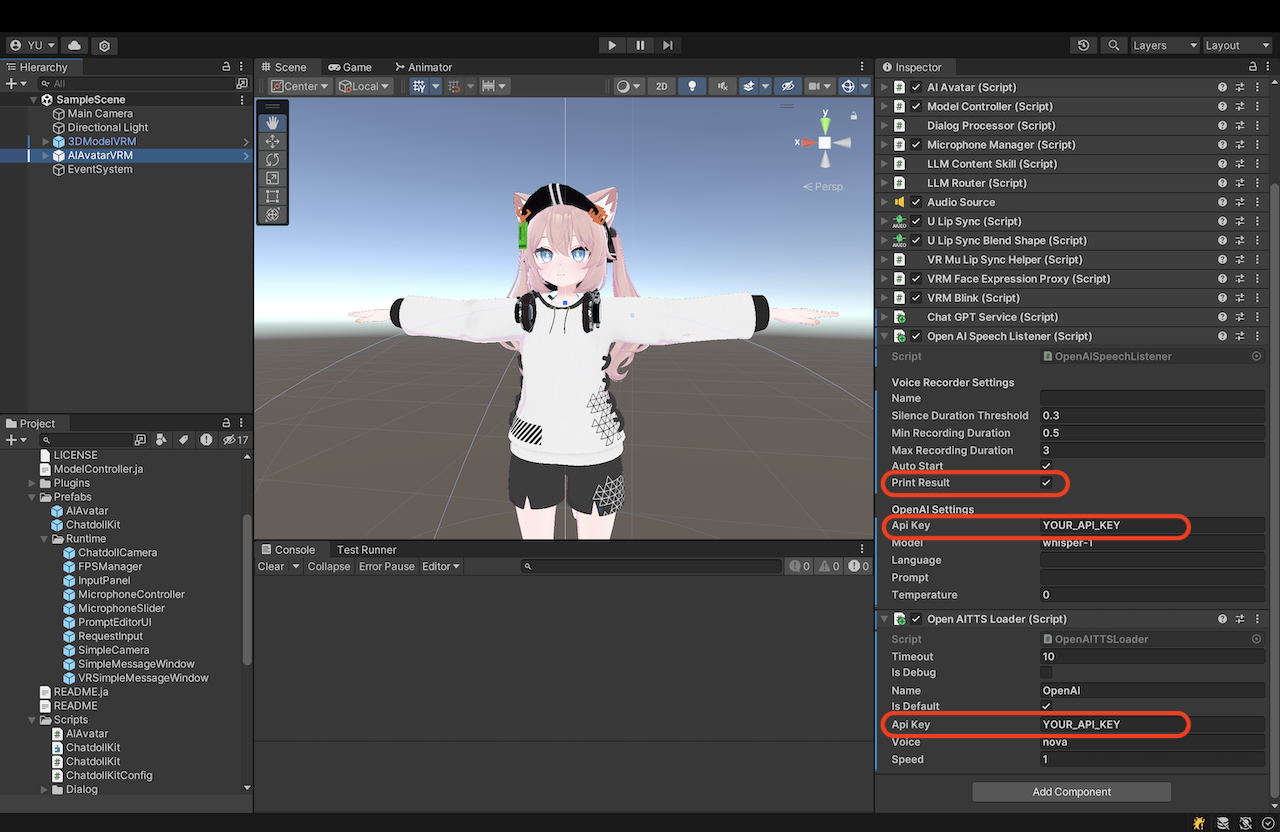
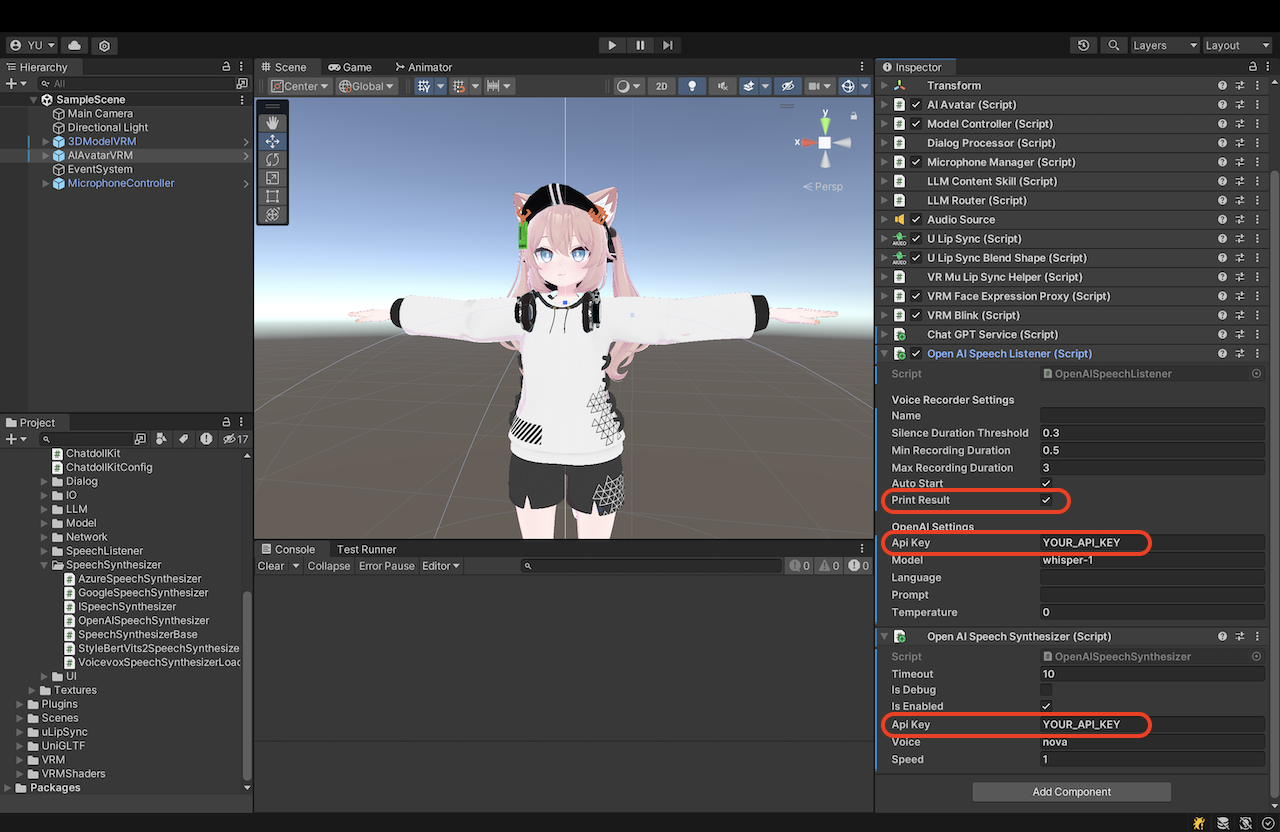
Update README for v0.8.2

diff --git a/README.md b/README.md
@@ -16,14 +16,21 @@
 - **Multi platforms**: Compatible with Windows, Mac, Linux, iOS, Android, and other Unity-supported platforms, including VR, AR, and WebGL.
 
 
-## 💎 What's New in Version 0.8.1
+## 💎 What's New in Version 0.8.2
+
+- **🌐 Control WebGL Character from JavaScript**: We’ve added the ability to control the ChatdollKit Unity application from JavaScript when running in WebGL builds. This allows for more seamless interactions between the Unity app and web-based systems.
+- **🗣 Speech Synthesizer**: A new `SpeechSynthesizer` component has been introduced to streamline text-to-speech (TTS) operations. This component is reusable across projects without `Model` package, simplifying maintenance and reusability. 
+
+---
+
+### Previous Updates
+
+#### 0.8.1
 
 - **🏷 User-Defined Tags Support**: You can now include custom tags in AI responses, enabling dynamic actions. For instance, embed language codes in replies to switch between multiple languages on the fly during conversations.
 - **🌐 External Control via Socket**: Now supports external commands through Socket communication. Direct conversation flow, trigger specific phrases, or control expressions and gestures, unlocking new use cases like AI Vtubers and remote customer service. Check out the client-side demo here: https://gist.github.com/uezo/9e56a828bb5ea0387f90cc07f82b4c15
 
----
-
-### Previous Updates (0.8.0 Beta)
+#### 0.8 Beta
 
 - **⚡ Optimized AI Dialog Processing**: We've boosted response speed with parallel processing and made it easier for you to customize behavior with your own code. Enjoy faster, more flexible AI conversations!
 - **🥰 Emotionally Rich Speech**: Adjusts vocal tone dynamically to match the conversation, delivering more engaging and natural interactions.
@@ -42,7 +49,7 @@ To run the demo for version 0.8, please follow the steps below after importing t
 - Select `AIAvatarVRM` object in scene.
 - Set OpenAI API key to following components on inspector:
   - ChatGPTService
-  - OpenAITTSLoader
+  - OpenSpeechSynthesizer
   - OpenAISpeechListener
 - Run on Unity Editor.
 - Say "こんにちは" or word longer than 3 characters.
@@ -61,14 +68,14 @@ To run the demo for version 0.8, please follow the steps below after importing t
   - [Speech Service](#speech-service)
   - [Microphone Controller](#microphone-controller)
   - [Run](#run)
-- [🎓 LLM Service](#-llm-service-1)
+- [🎓 LLM Service](#-llm-service)
   - [Basic Settings](#basic-settings)
   - [Facial Expressions](#facial-expressions)
   - [Animations](#animations)
   - [User Defined Tag](#user-defined-tag)
   - [Multi Modal](#multi-modal)
-- [🗣 Speech Synthesizer (Text-to-Speech)](#-speech-synthesizer-text-to-speech)
-  - [Make custom TTSLoader](#make-custom-ttsloader)
+- [🗣 Speech Synthesizer (Text-to-Speech)](#%EF%B8%8F-speech-synthesizer-text-to-speech)
+  - [Make custom SpeechSynthesizer](#make-custom-speechsynthesizer)
   - [Performance and Quality Tuning](#performance-and-quality-tuning)
 - [🎧 Speech Listener (Speech-to-Text)](#-speech-listener-speech-to-text)
   - [Settings on AIAvatar Inspector](#settings-on-aiavatar-inspector)
@@ -77,18 +84,18 @@ To run the demo for version 0.8, please follow the steps below after importing t
   - [Cancel Words](#cancel-words)
   - [Ignore Words](#ignore-words)
   - [Wake Length](#wake-length)
-- [⚡ AI Agent (Tool Call)](#-ai-agent-tool-call)
-- [🎙 Devices](#-devices)
+- [⚡ AI Agent (Tool Call)](#%EF%B8%8F-ai-agent-tool-call)
+- [🎙 Devices](#%EF%B8%8F-devices)
   - [Microphone](#microphone)
   - [Camera](#camera)
 - [🥰 3D Model Control](#-3d-model-control)
   - [Idle Animations](#idle-animations)
   - [Control by Script](#control-by-script)
-- [🎚 UI Components](#-ui-components)
-- [🛜 Remote Access](#-remote-access)
+- [🎚 UI Components](#%EF%B8%8F-ui-components)
+- [🎮 Control from External Programs](#-control-from-external-programs)
   - [ChatdollKit Remote Client](#chatdollkit-remote-client)
 - [🌐 Run on WebGL](#-run-on-webgl)
-- [❤ Thanks](#-thanks)
+- [❤ Thanks](#%EF%B8%8F-thanks)
 
 
 ## 📦 Setup New Project
@@ -164,7 +171,7 @@ Attach the component corresponding to the LLM service from `ChatdollKit/Scripts/
 
 ### Speech Service
 
-Attach the `SpeechListener` component from `ChatdollKit/Scripts/SpeechListener` for speech recognition and the `TTSLoader` component from `ChatdollKit/Extension` for speech synthesis. Configure the necessary fields like API keys and language codes. Enabling `PrintResult` in the SpeechListener settings will output recognized speech to the log, useful for debugging.
+Attach the `SpeechListener` component from `ChatdollKit/Scripts/SpeechListener` for speech recognition and the `SpeechSynthesizer` component from `ChatdollKit/Scripts/SpeechSynthesizer` for speech synthesis. Configure the necessary fields like API keys and language codes. Enabling `PrintResult` in the SpeechListener settings will output recognized speech to the log, useful for debugging.
 
 <img src="Documents/Images/readme081/08_setup_speech.png" width="640">
 
@@ -285,26 +292,19 @@ chatGPTService.HandleExtractedTags = (tags, session) =>
 {
     if (tags.ContainsKey("language"))
     {
-        // Get language code
         var language = tags["language"].Contains("-") ? tags["language"].Split('-')[0] : tags["language"];
-
         if (language != "ja")
         {
-            // Use OpenAI TTS for non-Japanese languages
-            var openAITTS = gameObject.GetComponent<OpenAITTSLoader>();
-            modelController.RegisterTTSFunction(openAITTS.Name, openAITTS.GetAudioClipAsync, true);
+            var openAISpeechSynthesizer = gameObject.GetComponent<OpenAISpeechSynthesizer>();
+            modelController.SpeechSynthesizerFunc = openAISpeechSynthesizer.GetAudioClipAsync;
         }
         else
         {
-            // Use VOICEVOX for Japanese
-            var voicevoxTTS = gameObject.GetComponent<VoicevoxTTSLoader>();
-            modelController.RegisterTTSFunction(voicevoxTTS.Name, voicevoxTTS.GetAudioClipAsync, true);
+            var voicevoxSpeechSynthesizer = gameObject.GetComponent<VoicevoxSpeechSynthesizer>();
+            modelController.SpeechSynthesizerFunc = voicevoxSpeechSynthesizer.GetAudioClipAsync;
         }
-
-        // Change speech listener's language
         var openAIListener = gameObject.GetComponent<OpenAISpeechListener>();
         openAIListener.Language = language;
-
         Debug.Log($"Set language to {language}");
     }
 };
@@ -348,16 +348,16 @@ gameObject.GetComponent<ChatGPTService>().CaptureImage = async (source) =>
 
 ## 🗣 Speech Synthesizer (Text-to-Speech)
 
-We support cloud-based speech synthesis services such as Google, Azure, OpenAI, and Watson, in addition to VOICEVOX, VOICEROID, and Style-Bert-VITS2 for more characterful and engaging voices. To use a speech synthesis service, attach `TTSLoader` from `ChatdollKit/Extension` to the AIAvatar object and check the `IsDefault` box. If other `TTSLoader` components are attached, make sure to uncheck the `IsDefault` box for those not in use.
+We support cloud-based speech synthesis services such as Google, Azure, OpenAI, and Watson, in addition to VOICEVOX, VOICEROID, and Style-Bert-VITS2 for more characterful and engaging voices. To use a speech synthesis service, attach `SpeechSynthesizer` from `ChatdollKit/Scripts/SpeechListener` to the AIAvatar object and check the `IsEnabled` box. If other `SpeechSynthesizer` components are attached, make sure to uncheck the `IsEnabled` box for those not in use.
 
-You can configure parameters like API keys and endpoints on the attached `TTSLoader` in the inspector. For more details of these parameters, refer to the API references of TTS services.
+You can configure parameters like API keys and endpoints on the attached `SpeechSynthesizer` in the inspector. For more details of these parameters, refer to the API references of TTS services.
 
-### Make custom TTSLoader
+### Make custom SpeechSynthesizer
 
-You can easily create and use a custom `TTSLoader` for your preferred text-to-speech service. Create a class that inherits from `ChatdollKit.Model.WebVoiceLoaderBase`, and implement the asynchronous method `DownloadAudioClipAsync` that takes a `Voice` object and returns an `AudioClip` object playable in Unity.
+You can easily create and use a custom `SpeechSynthesizer` for your preferred text-to-speech service. Create a class that inherits from `ChatdollKit.SpeechSynthesizer.SpeechSynthesizerBase`, and implement the asynchronous method `DownloadAudioClipAsync` that takes a `string text` and `Dictionary<string, object> parameters`, and returns an `AudioClip` object playable in Unity.
 
 ```csharp
-UniTask<AudioClip> DownloadAudioClipAsync(Voice voice, CancellationToken token)
+UniTask<AudioClip> DownloadAudioClipAsync(string text, Dictionary<string, object> parameters, CancellationToken cancellationToken)
 ```
 
 Note that WebGL does not support compressed audio playback, so make sure to handle this by adjusting your code depending on the platform.
@@ -380,7 +380,7 @@ You can balance performance and speech quality by adjusting how the text is spli
 
 We support cloud-based speech recognition services such as Google, Azure, and OpenAI. To use these services, attach the `SpeechListener` component from `ChatdollKit/Scripts/SpeechListener` to the AIAvatar object. Be aware that if multiple SpeechListeners are attached, they will run in parallel, so ensure that only the one you want is active.
 
-You can configure parameters such as API keys and endpoints on the attached SpeechListener in the inspector. For details of these parameters, please refer to the API references of the respective TTS services and products.
+You can configure parameters such as API keys and endpoints on the attached SpeechListener in the inspector. For details of these parameters, please refer to the API references of the respective STT services and products.
 
 Most of the `Voice Recorder Settings` are controlled by the `AIAvatar` component, described later, so any settings in the inspector, except for those listed below, will be ignored.
 
@@ -496,9 +496,10 @@ We provide UI component prefabs commonly used in voice-interactive AI character 
 - **SimpleCamera**: A component that handles image capture and preview display from the camera. You can also capture images without showing the preview.
 
 
-## 🛜 Remote Access
+## 🎮 Control from External Programs
 
-You can send requests to the ChatdollKit application from external programs using socket communication. This feature enables new use cases such as AI Vtuber streaming, remote avatar customer service, and hybrid character operations combining AI and human interaction. Attach the `ChatdollKit/Scripts/Network/SocketServer` to the AIAvatar object and set the port number (e.g., 8080).
+You can send requests to the ChatdollKit application from external programs using socket communication or from JavaScript. This feature enables new use cases such as AI Vtuber streaming, remote avatar customer service, and hybrid character operations combining AI and human interaction.
+Attach `ChatdollKit/Scripts/Network/SocketServer` to the AIAvatar object and set the port number (e.g., 8080) to control using socket communication, or, attach `ChatdollKit/Scripts/IO/JavaScriptMessageHandler` to control from JavaScript.
 
 Additionally, to handle dialog requests over the network, attach the `ChatdollKit/Scripts/Dialog/DialogPriorityManager` to the AIAvatar object. To process requests that make the character perform gestures, facial expressions, or speech created by humans instead of AI responses, attach the `ChatdollKit/Scripts/Model/ModelRequestBroker` to the AIAvatar object.
 
@@ -506,7 +507,6 @@ Below is a code example for using both of the above components.
 
 ```csharp
 // Configure ModelRequestBroker for remote control
-var modelRequestBroker = gameObject.GetComponent<ModelRequestBroker>();
 modelRequestBroker.RegisterAnimation("angry_hands_on_waist", new Model.Animation("BaseParam", 0, 3.0f));
 modelRequestBroker.RegisterAnimation("brave_hand_on_chest", new Model.Animation("BaseParam", 1, 3.0f));
 modelRequestBroker.RegisterAnimation("calm_hands_on_back", new Model.Animation("BaseParam", 2, 3.0f));
@@ -521,29 +521,49 @@ modelRequestBroker.RegisterAnimation("look_away", new Model.Animation("BaseParam
 modelRequestBroker.RegisterAnimation("nodding_once", new Model.Animation("BaseParam", 6, 3.0f, "AGIA_Layer_nodding_once_01", "Additive Layer"));
 modelRequestBroker.RegisterAnimation("swinging_body", new Model.Animation("BaseParam", 6, 3.0f, "AGIA_Layer_swinging_body_01", "Additive Layer"));
 
-// Get DialogPriorityManager for remote control
-var dialogPriorityManager = gameObject.GetComponent<DialogPriorityManager>();
+// Configure message handler for remote control
+#pragma warning disable CS1998
+#if UNITY_WEBGL && !UNITY_EDITOR
+gameObject.GetComponent<JavaScriptMessageHandler>().OnDataReceived = async (message) =>
+{
+    HandleExternalMessage(message, "JavaScript");
+};
+#else
+gameObject.GetComponent<SocketServer>().OnDataReceived = async (message) =>
+{
+    HandleExternalMessage(message, "SocketServer");
+};
+#endif
+#pragma warning restore CS1998
+```
 
-// Configure SocketServer for remote control
-gameObject.GetComponent<SocketServer>().OnDataReceived = (request) =>
+```csharp
+private void HandleExternalMessage(ExternalInboundMessage message, string source)
 {
     // Assign actions based on the request's Endpoint and Operation
-    if (request.Endpoint == "dialog")
+    if (message.Endpoint == "dialog")
     {
-        if (request.Operation == "start")
+        if (message.Operation == "start")
         {
-            dialogPriorityManager.SetRequest(request.Text, request.Payloads, request.Priority);
+            if (source == "JavaScript")
+            {
+                dialogPriorityManager.SetRequest(message.Text, message.Payloads, 0);
+            }
+            else
+            {
+                dialogPriorityManager.SetRequest(message.Text, message.Payloads, message.Priority);
+            }
         }
-        else if (request.Operation == "clear")
+        else if (message.Operation == "clear")
         {
-            dialogPriorityManager.ClearDialogRequestQueue(request.Priority);
+            dialogPriorityManager.ClearDialogRequestQueue(message.Priority);
         }
     }
-    else if (request.Endpoint == "model")
+    else if (message.Endpoint == "model")
     {
-        modelRequestBroker.SetRequest(request.Text);
-    }
-};
+        modelRequestBroker.SetRequest(message.Text);
+    }            
+}
 ```
 
 ### ChatdollKit Remote Client
@@ -562,7 +582,7 @@ Refer to the following tips for now. We are preparing demo for WebGL.
 - Built-in Async/Await doesn't work (app stops at `await`) because JavaScript doesn't support threading. Use [UniTask](https://github.com/Cysharp/UniTask) instead.
 - CORS required for HTTP requests.
 - Microphone is not supported. Use `ChatdollMicrophone` that is compatible with WebGL.
-- Compressed audio formats like MP3 are not supported. Use WAV in TTS Loaders.
+- Compressed audio formats like MP3 are not supported. Use WAV in SpeechSynthesizer.
 - OVRLipSync is not supported. Use [uLipSync](https://github.com/hecomi/uLipSync) and [uLipSyncWebGL](https://github.com/uezo/uLipSyncWebGL) instead.
 - If you want to show multibyte characters in message window put the font that includes multibyte characters to your project and set it to message windows.
 
